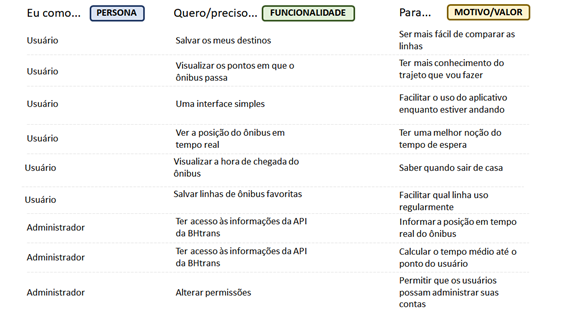
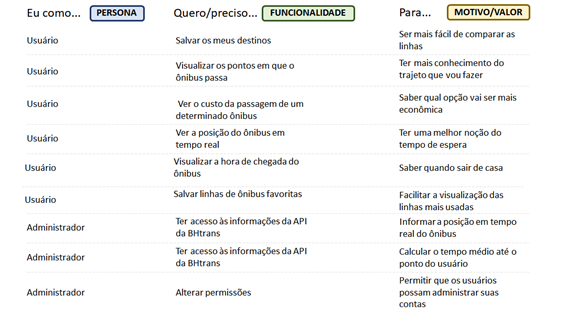
Ajuste nos requisitos e historias de usuários

Changed region(s): [[0.6896, 0.2848, 0.9295, 0.3703], [0.2998, 0.3133, 0.5397, 0.3987], [0.6896, 0.5981, 0.8995, 0.6835]]

diff --git a/docs/relatorio/Relatorio Tecnico - TEMPLATE.md b/docs/relatorio/Relatorio Tecnico - TEMPLATE.md
@@ -81,7 +81,6 @@
 >Segundo o IPEA (Instituto de pesquisa econômica aplicada), 65% da população brasileira utiliza o transporte público como principal forma de deslocamento nas capitais. Em pesquisas realizadas pelo instituto, verificou-se que mais de 90% dos passageiros consideram que andam em ônibus lotados e esperam mais de 30 minutos nos pontos de ônibus, uma vez que os horários muitas vezes não são respeitados.
 >
 >Em pesquisa realizada pela própria equipe do projeto, avaliamos um grupo composto em 88,6% por jovens de 18 a 30 anos, sendo que 68% são pessoas que utilizam o ônibus como principal meio de transporte. Visando auxiliar os usuários que andam de ônibus diariamente, o projeto em questão busca fornecer melhores rotas, informações acerca das linhas de ônibus e controle dos horários, para os usuários que buscam maior praticidade no momento de deslocamento de sua residência ao local desejado.
-
 >
 ## Público-Alvo
 >
@@ -150,9 +149,9 @@
 >
 |ID     | Descrição do Requisito  |Prioridade |
 |-------|-------------------------|----|
-|RNF-001| Deve possuir acesso às informações da API do BHtrans | ALTA | 
-|RNF-002| A interface deve ser simples e objetiva | ALTA | 
-|RNF-003| O sistema deve ser responsivo em um dispositivos móvel | ALTA | 
+|RNF-001| Deve conseguir acessar as informações da API do BHtrans e MapBox | ALTA | 
+|RNF-002| O usuário deve ser capaz de encontrar opções de ônibus com menos de 5 cliques | ALTA | 
+|RNF-003| A opção de favoritar linhas e endeços deve ser indicada no momento de pesquisa do usuário | ALTA | 
 |RNF-004| O sistema precisa ser executado tanto em desktops quanto dispositivos móveis | MÉDIA | 
 |RNF-005| O tempo para apresentação da linha do ônibus não pode ser superior a 5 segundos | MÉDIA | 
 |RNF-006| A interface deve possuir uma opção de layout claro e escuro  | BAIXA | 
